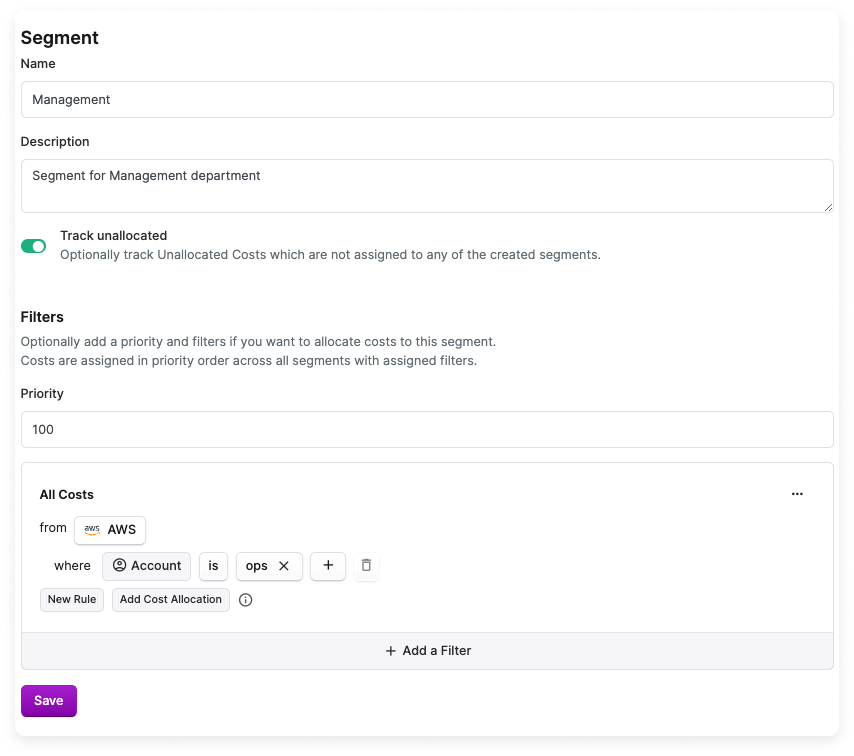
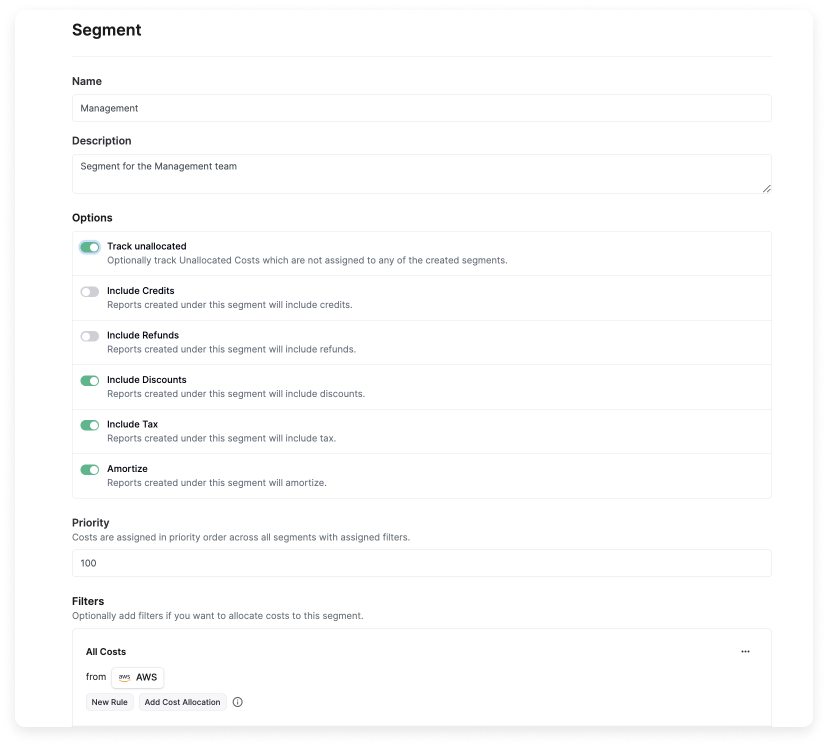
Update segments for new settings

diff --git a/docs/segments.md b/docs/segments.md
@@ -9,50 +9,53 @@ keywords:
 # Segments
 
 :::note
-To enable the Segments feature in your account, please contact Support at [support@vantage.sh](mailto:support@vantage.sh).
+To enable the segments feature in your account, please contact Support at [support@vantage.sh](mailto:support@vantage.sh).
 :::
 
-A Segment is a set of filters that represents a portion of costs for your organization. You can think of Segments like a pivot table for all your costs—or, in other words, a namespace of costs. With Segments, you can perform cost allocation and enforce cost governance for your organization. Optionally, you can create nested hierarchies of costs that can map to teams, departments, apps, or services within your organization. Segments ensure that costs are allocated only once and not duplicated in cases of showback/chargeback scenarios.
+A segment is a set of filters that represents a portion of costs for your organization. You can think of segments like a pivot table for all your costs—or, in other words, a namespace of costs. With segments, you can perform cost allocation and enforce cost governance for your organization. Optionally, you can create nested hierarchies of costs that can map to teams, departments, apps, or services within your organization. Segments ensure that costs are allocated only once and not duplicated in cases of showback/chargeback scenarios.
 
 ## Segments Use Cases
 
-You can leverage Segments for a number of use cases, including the below examples.
+You can leverage segments for many use cases, including the below examples.
 
 - **Map costs to business units.** You can use nested hierarchies for cost allocation. For example, you can see costs grouped by an “Infrastructure Engineering” team, then drill down into all the various sub-teams, like "Infrastructure Engineering Team 1” and “Infrastructure Engineering Team 2." The costs for Team 1 and Team 2 together comprise the total cost allocation line-item for Infrastructure Engineering.
-- **Maintain tag governance.** You can create a Segment for a particular tag key you want to enforce across your organization. Whenever there are costs in the “Unallocated” portion of the report, you can go and identify resources to assign to the proper team or service. Unallocated costs are costs that are captured by a Segment's filters but are not allocated to any child Segments. For example, if you have two Segments defined for **OPEX** and **R&D**, any costs that do not match the logic associated with either of these filters will fall into an _Unallocated Segment_. The Unallocated Segment report is automatically displayed at the root- or parent-Segment level.
+- **Maintain tag governance.** You can create a segment for a particular tag key you want to enforce across your organization. Whenever there are costs in the “Unallocated” portion of the report, you can go and identify resources to assign to the proper team or service. Unallocated costs are costs that are captured by a segment's filters but are not allocated to any child segments. For example, if you have two segments defined for **OPEX** and **R&D**, any costs that do not match the logic associated with either of these filters will fall into an _Unallocated Segment_. The Unallocated Segment report is automatically displayed at the root or parent segment level.
 
 ## Create a Segment
 
-Follow the steps below to create a Segment.
+Follow the steps below to create a segment.
 
 1. From the top navigation, click **Cost Reporting**.
-2. On the left navigation, select **Segments**. If you have Segments present in your account, a full list of top-level Segments is displayed in the view on the right, sorted alphabetically.
-3. To create a new Segment, click **New Segment**.
-4. Set the following parameters for the new Segment:
+2. On the left navigation, select **Segments**. If you have segments present in your account, a full list of top-level segments is displayed in the view on the right, sorted alphabetically.
+3. To create a new segment, click **New Segment**.
+4. Set the following parameters for the new segment:
    - For **Name**, enter a unique string (e.g., _OPEX_). This field is required.
-   - For **Description**, optionally enter a text description for the Segment.
-   - If you want to optionally track unallocated costs, click the toggle next to **Track unallocated**. _This option is displayed only for the root or parent Segment._
+   - For **Description**, optionally enter a text description for the segment.
+   - For options, you can select whether you want to include or exclude credits, refunds, discounts, taxes, and amortization. You can also optionally track unallocated costs. 
+   :::note
+   These options are displayed only for the root or parent segment, and the selections you make will apply to child segments. Track unallocated applies only to the parent segment.
+   :::
    - For **Priority**, enter a numeric value (e.g., _100_). Costs are allocated in order of priority, with 0 as the highest priority. This field is required if filters are specified (as described in the next step). If you do not specify filters, this field is optional.
      :::note
-     Once a cost is allocated to a Segment, it will not appear in a Segment with a higher priority; however, you likely will not need to worry about priority unless your organization has deep scrutiny on cost allocation collision.
+     Once a cost is allocated to a segment, it will not appear in a segment with a higher priority; however, you likely will not need to worry about priority unless your organization has deep scrutiny on cost allocation collision.
      :::
-5. Filters allocate costs to the Segment and are optional. To create a filter, click **+ Add a Filter** and configure the following values:
+5. Filters allocate costs to the segment and are optional. To create a filter, click **+ Add a Filter** and configure the following values:
    - Select a **Provider**.
-   - Click **New Rule** to add additional logic, such as **Region** or **Category** filters. Segment filters are like filters in Cost Reports. See [Filter Cost Reports](/cost_reports#filtering-cost-reports) for a more detailed explanation of filters. Note that you cannot use _saved filters_ from Cost Reports in Segments.
+   - Click **New Rule** to add additional logic, such as **Region** or **Category** filters. Segment filters are like filters in Cost Reports. See [Filter Cost Reports](/cost_reports#filtering-cost-reports) for a more detailed explanation of filters. Note that you cannot use _saved filters_ from Cost Reports in segments.
     <details><summary>Click to view example image</summary>
-   <p>This example shows a root- or parent-level Segment called "Management." Child Segment parameters will be the same—except for the <strong>Track unallocated</strong> option, which is not displayed for child Segments.</p>
+   <p>This example shows a root- or parent-level segment called "Management." Child segment parameters will be the same—except for the <strong>Track unallocated</strong> option, which is not displayed for child segments.</p>
    <div style={{display:"flex", justifyContent:"center"}}>
-    <img alt="Create Cost Filters for Segment" width="80%" src="/img/create-segment.png" />
+    <img alt="Create Cost Filters for segment" width="80%" src="/img/create-segment.png" />
     </div>
    </details>
-6. At the bottom, click **Save**. You will see a message indicating **"A Segment Report will appear here when the segment is finished refreshing"** while the report for the Segment is generated. Depending on the filter's complexity, it can take some time for the Segment report to generate (up to 24 hours).
+6. At the bottom, click **Save**. You will see a message indicating **"A Segment Report will appear here when the segment is finished refreshing"** while the report for the segment is generated. Depending on the filter's complexity, it can take some time for the segment report to generate (up to 24 hours).
 
 ### Edit a Segment
 
 :::note
-If you make additional changes to a filter or Segment metadata, like title, it can take up to 24 hours to see those changes reflected in the console.
+If you make additional changes to a filter or segment metadata, like title, it can take up to 24 hours to see those changes reflected in the console.
 :::
-You can edit a Segment's title, description, priority, and filters within the console. To edit these criteria, click the pencil icon next to the Segment name. Then, update and save the new criteria.
+You can edit a segment's title, description, priority, and filters within the console. On parent-level segments, you can also edit the settings, such as discounts and taxes. To edit these criteria, click the pencil icon next to the segment name. Then, update and save the new criteria. Any changes to settings will be reflected once the segments are regenerated. This process may take up to 24 hours. 
 
 <div style={{display:"flex", justifyContent:"center"}}>
     <img alt="Multi-dimensional Grouping" width="90%" src="/img/edit-segment.png" />
@@ -60,28 +63,28 @@ You can edit a Segment's title, description, priority, and filters within the co
 
 ### View and Create Child Segments
 
-You can create child Segments and nest Segments within one another. Costs associated with nested Segments/filters will be rolled up to any parent Segments. To add a child Segment to a parent Segment, navigate to the parent Segment, and click **+ New Segment**. The image below shows an example of a group of nested Segments.
+You can create child segments and nest segments within one another. Costs associated with nested segments/filters will be rolled up to any parent segments. To add a child segment to a parent segment, navigate to the parent segment, and click **+ New Segment**. The image below shows an example of a group of nested segments.
 
 <div style={{display:"flex", justifyContent:"center"}}>
     <img alt="Multi-dimensional Grouping" width="80%" src="/img/view-segments.png" />
 </div>
 
-- In the above example, **Vantage** is the top-level Segment (as displayed in the breadcrumbs at the top of the screen).
-- The **Vantage** Segment Cost Report is displayed at the bottom of the list.
-- In this example, we selected the option to show **Unallocated costs** when creating this parent Segment. The corresponding **Unallocated** Segment Cost Report is displayed in the list. 
-- The **Vantage** parent Segment has two child Segments: **OPEX** and **R&D**.
+- In the above example, **Vantage** is the top-level segment (as displayed in the breadcrumbs at the top of the screen).
+- The **Vantage** segment report is displayed at the bottom of the list.
+- In this example, we selected the option to show **Unallocated costs** when creating this parent segment. The corresponding **Unallocated** segment report is displayed in the list. 
+- The **Vantage** parent segment has two child segments: **OPEX** and **R&D**.
 
-Select a child Segment. You will see additional third-level child Segments as well as the associated child Segment Cost Report. In the below image, the **R&D** child Segment Cost Report is displayed. R&D contains no additional child Segments; however you can add them if you want. Observe the breadcrumbs at the top, which also indicate **R&D** is a child Segment of **Vantage**. 
+Select a child segment. You will see additional third-level child segments as well as the associated child segment report. In the below image, the **R&D** child segment report is displayed. R&D contains no additional child segments; however, you can add them if you want. Observe the breadcrumbs at the top, which also indicate **R&D** is a child segment of **Vantage**. 
 
 <div style={{display:"flex", justifyContent:"center"}}>
-<img alt="Create Cost Filters for Segment" width="80%" src="/img/child-segment.png" />
+<img alt="Create Cost Filters for segment" width="80%" src="/img/child-segment.png" />
 </div>
 
 ## View Segment Reports
 
-Select a Segment report to view the associated costs. On the report, costs are displayed for all associated child Segments.
+Select a segment report to view the associated costs. On the report, costs are displayed for all associated child segments.
 
-- The report is filtered to **Group By: Segment** to show costs broken out by the child Segments within that Segment. In the below visual example, costs are grouped by **Customers**, **OPS**, and **Production** within the **OPEX** Segment. This is because **Customers**, **OPS**, and **Production** are all third-level child Segments for **OPEX**. 
+- The report is filtered to **Group By: Segment** to show costs broken out by the child segments within that segment. In the below visual example, costs are grouped by **Customers**, **OPS**, and **Production** within the **OPEX** segment. This is because **Customers**, **OPS**, and **Production** are all third-level child segments for **OPEX**. 
 - Change the filter to view the data by another grouping, such as **Account**.
 - From the resource list at the bottom, click the icons next to each resource to isolate costs displayed within the chart. 
 - At the top right of the chart, you can change the date range and date bin (e.g., daily, weekly, monthly).
@@ -110,10 +113,10 @@ Select a Segment report to view the associated costs. On the report, costs are d
 <br />
 
 :::note
-If you would like to transition existing Cost Report filters to Segments, you must manually re-create them. For assistance, contact Support at [support@vantage.sh](mailto:support@vantage.sh).
+If you would like to transition existing Cost Report filters to segments, you must manually re-create them. For assistance, contact Support at [support@vantage.sh](mailto:support@vantage.sh).
 :::
 
 ## Segments in Overview
 
-A Segment widget is displayed for each top-level Segment on the [Overview](/overview/) screen. This Segments widget shows a table of second-level Segments and a comparison of costs for this month vs. last. You can select any of these Segments to view the corresponding Cost Report.
+A segment widget is displayed for each top-level segment on the [Overview](/overview/) screen. This segments widget shows a table of second-level segments and a comparison of costs for this month vs. last. You can select any of these segments to view the corresponding Cost Report.
 
